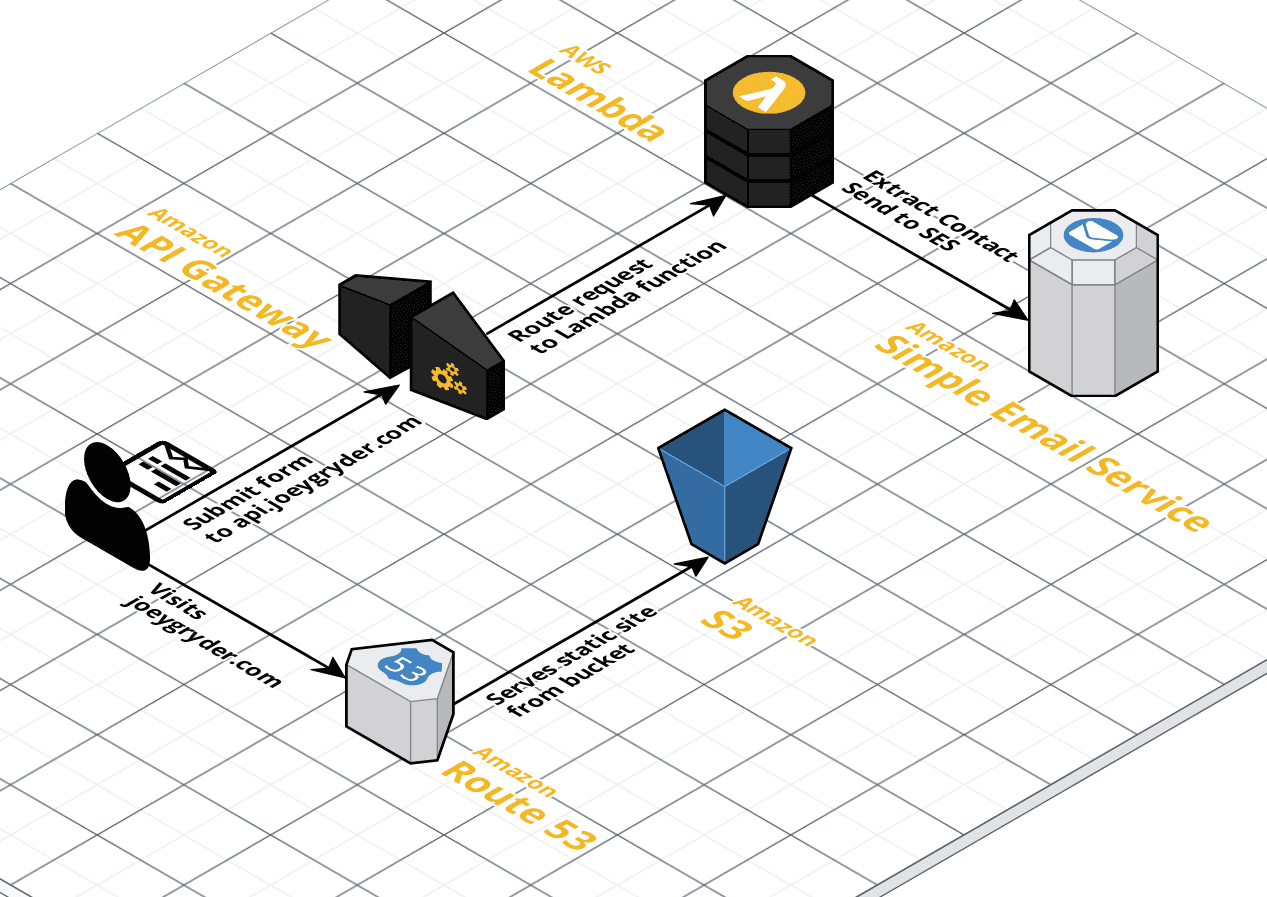
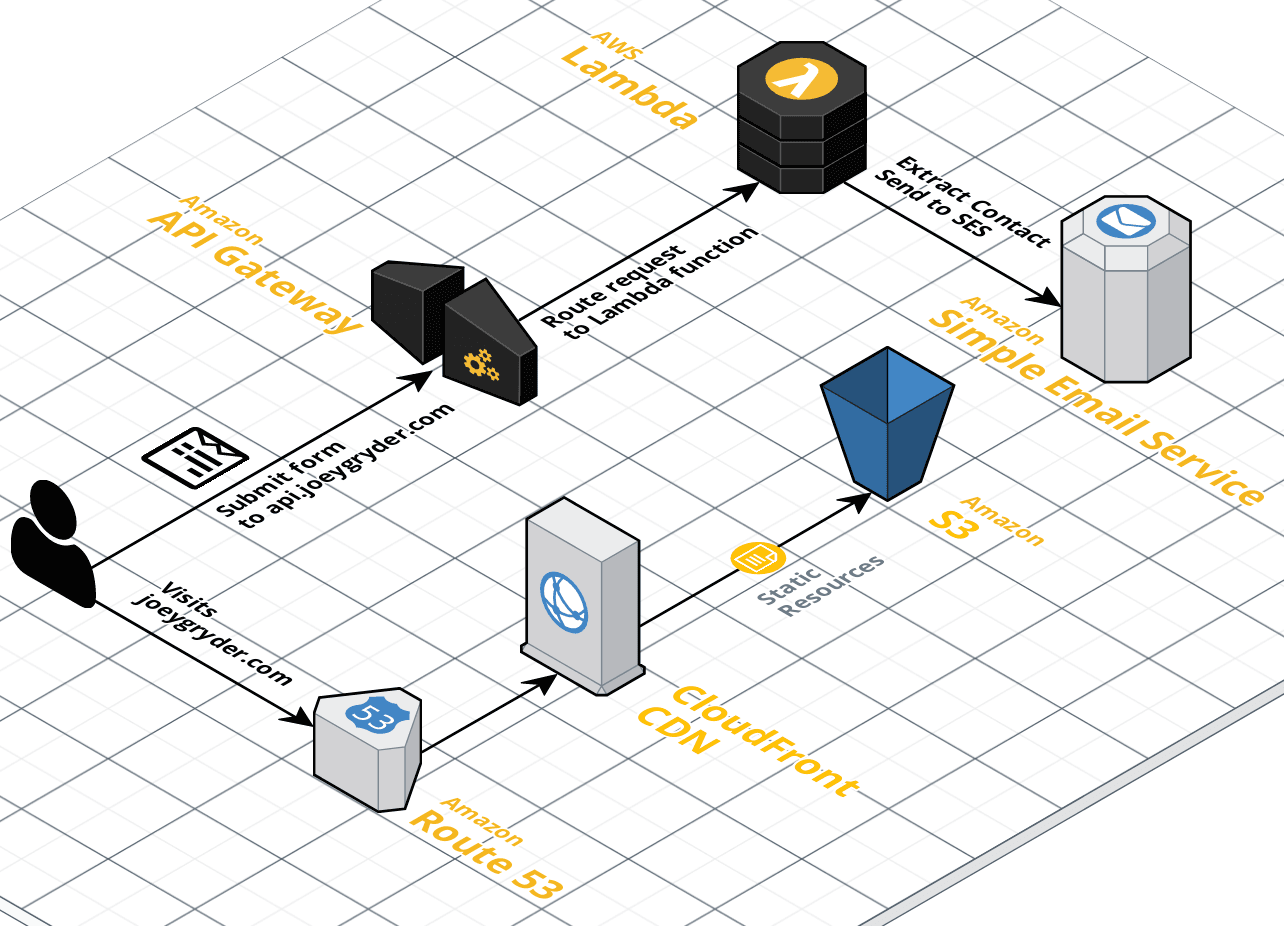
Updated joeygryder-com image with Cloudfront. Moved base Portfolio component to PersonalSite. Started building out unordered list of nav items for nav dropdown.

diff --git a/site/src/PersonalSite.js b/site/src/PersonalSite.js
@@ -1,0 +1,142 @@
+import React, { Component } from 'react';
+import { Link } from 'react-router-dom'
+import { HashLink } from 'react-router-hash-link';
+import Contact from './Contact';
+import SiteArchImg from './images/joeygryder-com.png'
+
+class PersonalSite extends Component {
+
+    render() {
+        return (
+            <div className="details-page">
+                <div id="page-wrapper">
+                    {/* Header */}
+                    <div id="header-wrapper" className="wrapper">
+                        <div id="header">
+
+                            {/* Nav */}
+                            <nav id="nav">
+                                <ul>
+                                    <li className="current"><Link to="/">Home</Link></li>
+                                    <li>
+										<a href="#">Dropdown</a>
+										<ul>
+											<li><a href="#">Lorem ipsum</a></li>
+											<li><a href="#">Magna veroeros</a></li>
+											<li><a href="#">Etiam nisl</a></li>
+                                        </ul>
+                                    </li>
+                                    <li><Link to="/personal-site">joeygryder.com</Link></li>
+                                    <li><a href="#footer">Contact</a></li>
+                                </ul>
+                            </nav>
+
+                            {/* Logo */}
+                            <div id="logo">
+                                <h1><a href="index.html">Joey Gryder</a></h1>
+                            </div>
+                        </div>
+                    </div>
+                    {/* End Header */}
+
+                    {/* Main */}
+                    <div className="wrapper style2">
+                        <div className="title">joeygryder.com</div>
+                        <div id="main" className="container">
+                            
+                            {/* Content */}
+                            <div id="content">
+                                <article className="box post">
+                                    <header className="style1">
+                                        <h2>Lorem ipsum dolor sit amet magna egestas morbi bibendum sed malesuada</h2>
+                                        <p>Tempus feugiat veroeros sed nullam dolore</p>
+                                    </header>
+                                    <a href="#" className="image featured">
+                                        <img src={SiteArchImg} alt="joeygryder-com-arch" />
+                                    </a>
+                                    <p>Fringilla nisl. Donec accumsan interdum nisi, quis tincidunt felis sagittis eget.
+                                    odio eleifend. Duis commodo fringilla commodo. Aliquam erat volutpat. Vestibulum
+                                    facilisis leo magna. Cras sit amet urna eros, id egestas urna. Quisque aliquam
+                                    tempus euismod. Vestibulum ante ipsum primis in faucibus.</p>
+                                    <p>Phasellus nisl nisl, varius id porttitor sed, pellentesque ac orci. Pellentesque
+                                    habitant morbi tristique senectus et netus et malesuada fames ac turpis egestas. Morbi
+                                    bibendum justo sed mauris vehicula malesuada aliquam elit imperdiet. Aliquam eu nibh
+                                    lorem, eget gravida mi. Duis odio diam, luctus et vulputate vitae, vehicula ac dolor.
+                                    Pellentesque at urna eget tellus lobortis ultrices sed non erat. Donec eget erat non
+                                    magna volutpat malesuada quis eget eros. Nullam sodales cursus sapien, id consequat
+                                    leo suscipit ut. Praesent id turpis vitae turpis pretium ultricies. Vestibulum sit
+                                    amet risus elit.</p>
+                                    <p>Donec consectetur vestibulum dolor et pulvinar. Etiam vel felis enim, at viverra
+                                    ligula. Ut porttitor sagittis lorem, quis eleifend nisi ornare vel. Praesent nec orci
+                                    eget quam rutrum bibendum. Proin pellentesque diam non ligula commodo tempor. Vivamus
+                                    eget urna nibh. Curabitur non fringilla nisl. Donec accumsan interdum nisi, quis
+                                    tincidunt felis sagittis eget. Donec elementum ligula dignissim sem pulvinar non semper
+                                    odio eleifend. Duis commodo fringilla commodo. Aliquam erat volutpat. Vestibulum
+                                    facilisis leo magna. Cras sit amet urna eros, id egestas urna. Quisque aliquam
+                                    tempus euismod. Vestibulum ante ipsum primis in faucibus orci luctus et ultrices
+                                    posuere cubilia.</p>
+                                    <p>Phasellus nisl nisl, varius id porttitor sed, pellentesque ac orci. Pellentesque
+                                    habitant morbi tristique senectus et netus et malesuada fames ac turpis egestas. Morbi
+                                    bibendum justo sed mauris vehicula malesuada aliquam elit imperdiet. Aliquam eu nibh
+                                    lorem, eget gravida mi. Duis odio diam, luctus et vulputate vitae, vehicula ac dolor.
+                                    Pellentesque at urna eget tellus lobortis ultrices sed non erat. Donec eget erat non
+                                    magna volutpat malesuada quis eget eros. Nullam sodales cursus sapien, id consequat
+                                    leo suscipit ut. Praesent id turpis vitae turpis pretium ultricies. Vestibulum sit
+                                    amet risus elit.</p>
+                                </article>
+                                <div className="row 150%">
+                                    <div className="6u 12u(mobile)">
+                                        <section className="box">
+                                            <header>
+                                                <h2>Magna pulvinar tempus</h2>
+                                            </header>
+                                            <a href="#" className="image featured"><img src="images/pic05.jpg" alt="" /></a>
+                                            <p>Rutrum bibendum. Proin pellentesque diam non ligula commodo tempor. Vivamus
+                                            eget urna nibh. Curabitur non fringilla nisl. Donec accumsan interdum nisi, quis
+                                            tempus.</p>
+                                            <a href="#" className="button style1">More</a>
+                                        </section>
+                                    </div>
+                                    <div className="6u 12u(mobile)">
+                                        <section className="box">
+                                            <header>
+                                                <h2>Magna pulvinar tempus</h2>
+                                            </header>
+                                            <a href="#" className="image featured"><img src="images/pic06.jpg" alt="" /></a>
+                                            <p>Rutrum bibendum. Proin pellentesque diam non ligula commodo tempor. Vivamus
+                                            eget urna nibh. Curabitur non fringilla nisl. Donec accumsan interdum nisi, quis
+                                            tempus.</p>
+                                            <a href="#" className="button style1">More</a>
+                                        </section>
+                                    </div>
+                                </div>
+                            </div>
+                            {/* End Content */}
+
+                        </div>
+                    </div>
+                    {/* End Main */}
+
+                    {/* Footer */}
+                    <div id="footer-wrapper" className="wrapper">
+                        <div className="title">Contact</div>
+                        <div id="footer" className="container">
+                            <Contact />
+                            <hr />
+                        </div>
+                        <div id="copyright">
+                            <ul>
+                                <li>Joey Gryder &copy; {(new Date()).getFullYear()}</li>
+                                <li>Design: <a href="http://html5up.net">HTML5 UP</a></li>
+                            </ul>
+                        </div>
+                    </div>
+                    {/* End Footer */}
+
+                </div>
+            </div>
+        );
+    }
+}
+
+export default PersonalSite;

diff --git a/site/src/Home.js b/site/src/Home.js
@@ -1,7 +1,7 @@
 import React, { Component } from 'react';
 import { Link } from 'react-router-dom'
 import Contact from './Contact';
-import Portfolio from './Portfolio';
+import PersonalSite from './PersonalSite';
 import SiteArchImg from './images/joeygryder-com.png'
 
 class Home extends Component {
@@ -24,7 +24,7 @@ class Home extends Component {
                             <nav id="nav">
                                 <ul>
                                     <li className="current"><Link to="/">Home</Link></li>
-                                    <li><Link to="/portfolio">Portfolio</Link></li>
+                                    <li><Link to="/personal-site">Portfolio</Link></li>
                                     <li><a href="#footer">Contact</a></li>
                                 </ul>
                             </nav>
@@ -36,7 +36,7 @@ class Home extends Component {
                     <div id="intro-wrapper" className="wrapper style1">
                         <div className="title">The Introduction</div>
                         <section id="intro" className="container">
-                            <p className="style1">So in case you were wondering what this is all about ...</p>
+                            <p className="style1">Lorem ipsum dolor sit amet magna egestas morbi bibendum sed malesuada</p>
                             <p className="style2">
                                 Escape Velocity is a free responsive<br className="mobile-hide" /> site template by <a href="http://html5up.net" className="nobr">HTML5 UP</a>
                             </p>

diff --git a/site/src/App.js b/site/src/App.js
@@ -1,7 +1,7 @@
 import React, { Component } from 'react';
 import { Route, Link } from 'react-router-dom'
 import Home from './Home';
-import Portfolio from './Portfolio';
+import PersonalSite from './PersonalSite';
 
 class App extends Component {
 
@@ -27,15 +27,23 @@ class App extends Component {
 							style={{ WebkitTapHighlightColor: 'rgba(0, 0, 0, 0)' }}>
 							<span className="indent-0"></span>Home
 						</Link>
-						<Link to="/portfolio" className="link depth-0"
+						<Link to="/personal-site" className="link depth-0"
 							style={{ WebkitTapHighlightColor: 'rgba(0, 0, 0, 0)' }}>
 							<span className="indent-0"></span>Portfolio
 						</Link>
-					</nav>
+						<ul>
+							<li>
+								<Link to="/personal-site" className="link depth-1"
+									style={{ WebkitTapHighlightColor: 'rgba(0, 0, 0, 0)' }}>
+									<span className="indent-1"></span>joeygryder.com
+								</Link>	
+							</li>
+						</ul>
+					</nav>				
 				</div>
 
 				<Route exact path="/" component={Home} />
-				<Route exact path="/portfolio" component={Portfolio} />
+				<Route exact path="/personal-site" component={PersonalSite} />
 			</div>
 		);
 	}
